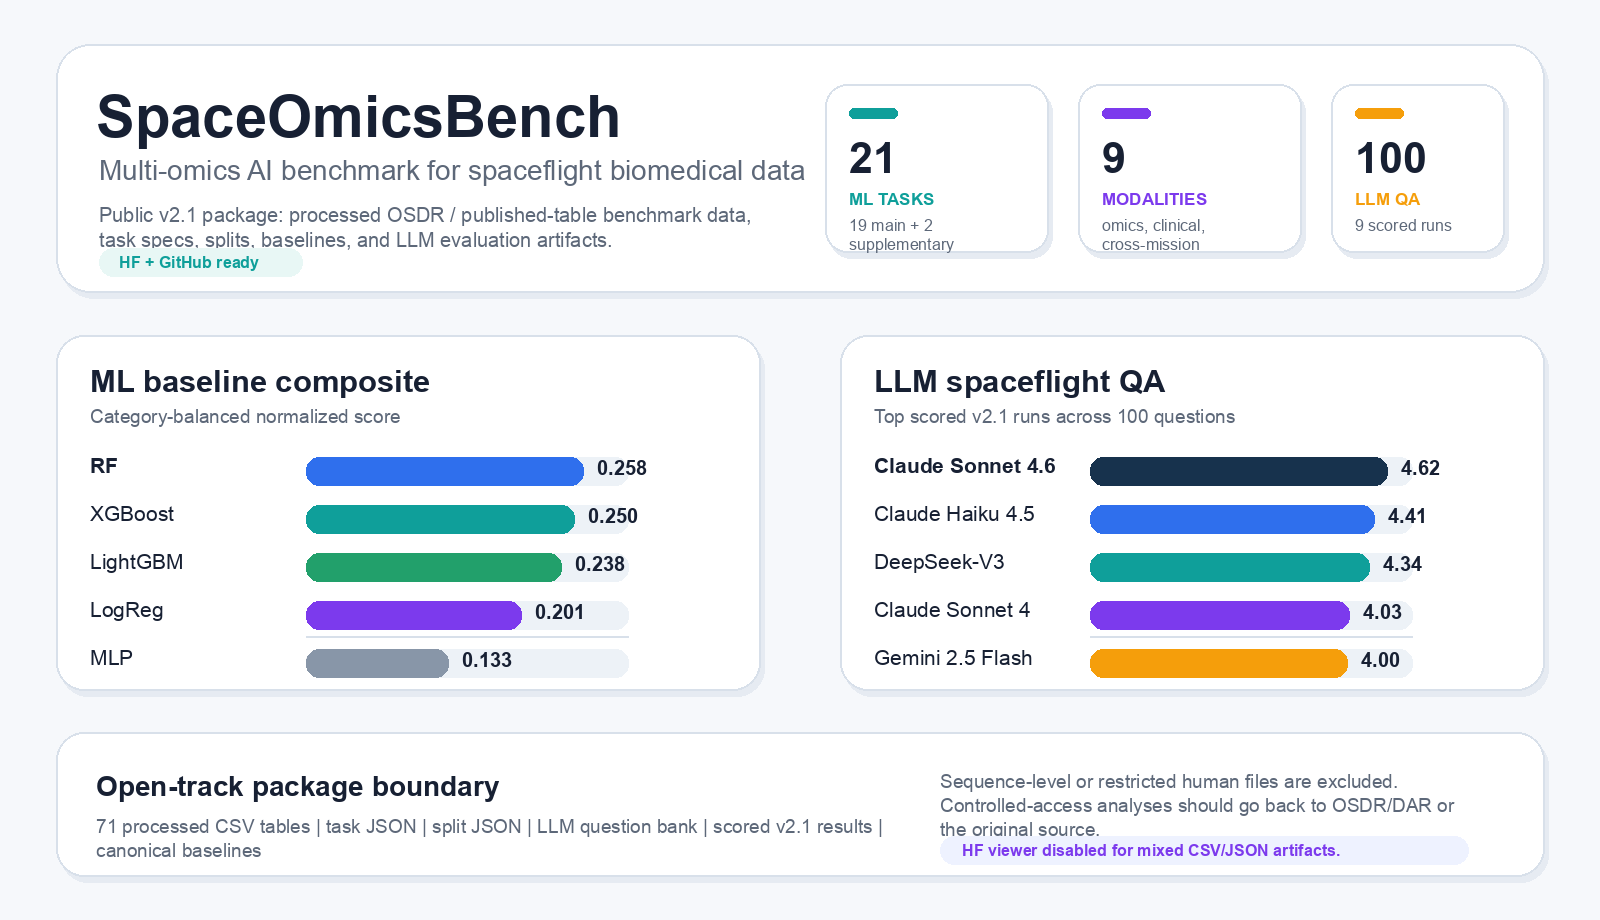
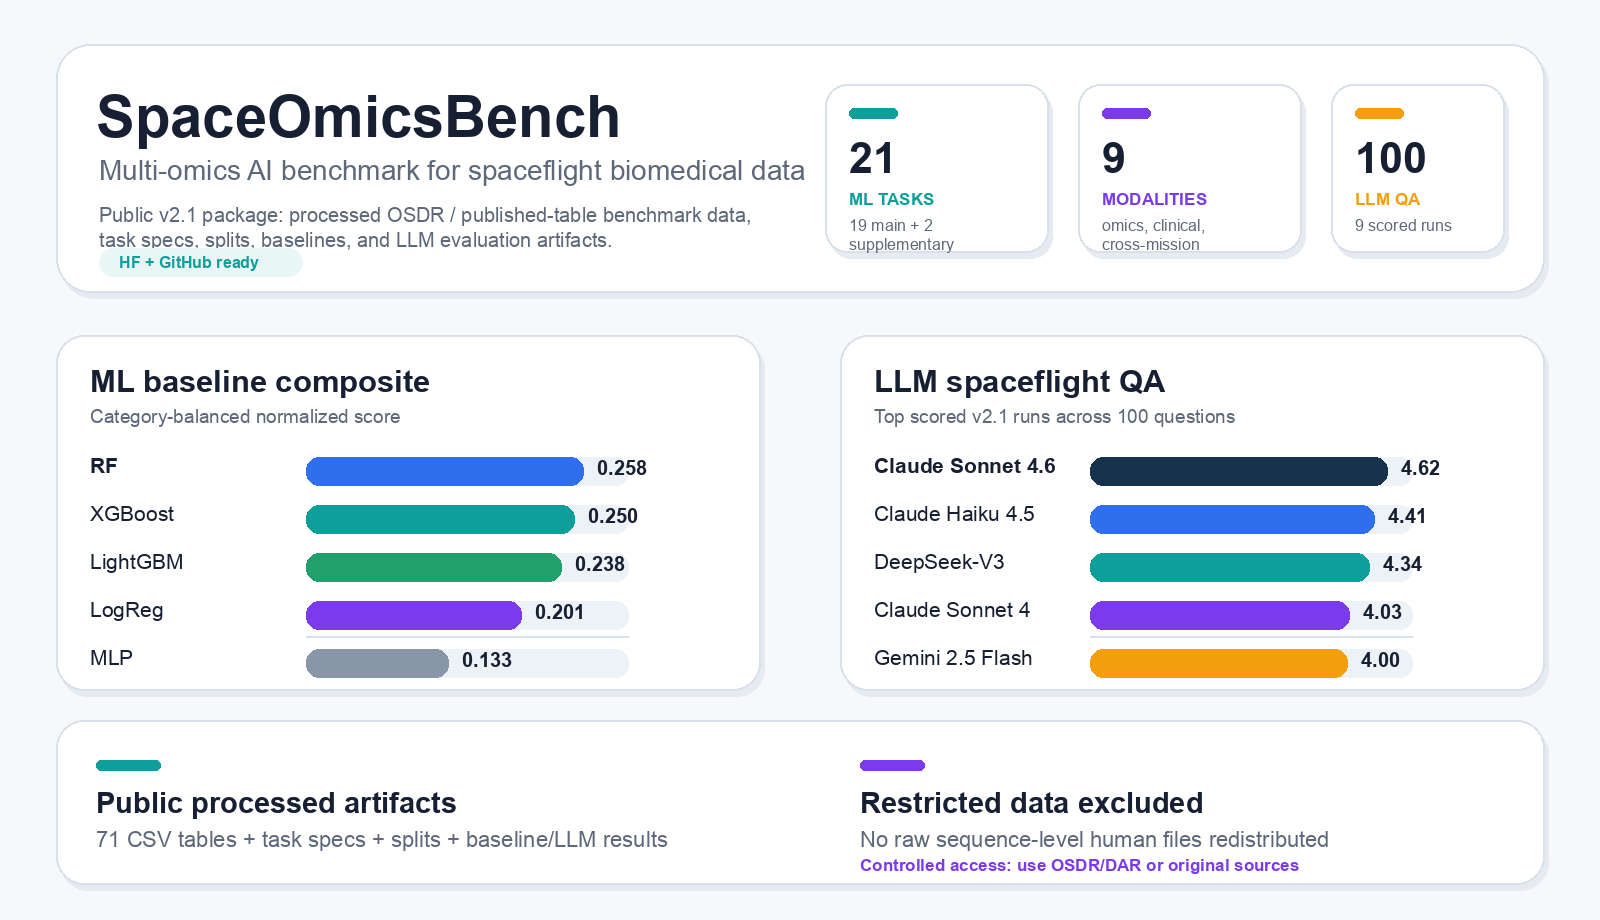
docs: refine SpaceOmicsBench summary figure

Changed region(s): [[0.0312, 0.8217, 0.9688, 0.9739], [0.9375, 0.7913, 0.9688, 0.8217], [0.0312, 0.7913, 0.0625, 0.8217]]

diff --git a/scripts/generate_hf_visual_assets.py b/scripts/generate_hf_visual_assets.py
@@ -227,29 +227,31 @@ def main() -> None:
         [COLORS["navy"], COLORS["blue"], COLORS["teal"], COLORS["violet"], COLORS["amber"]],
     )
 
-    footer = (56, 732, 1544, 876)
+    footer = (56, 720, 1544, 884)
     card(draw, footer, radius=28)
-    draw.text((96, 770), "Open-track package boundary", font=font(28, True), fill=COLORS["ink"])
-    multiline(
-        draw,
-        (96, 815),
-        f"{processed} processed CSV tables | task JSON | split JSON | LLM question bank | scored v2.1 results | canonical baselines",
-        font(19),
-        COLORS["muted"],
-        850,
-        5,
+    draw.rounded_rectangle((96, 760, 160, 770), radius=5, fill=COLORS["teal"])
+    draw.text((96, 786), "Public processed artifacts", font=font(29, True), fill=COLORS["ink"])
+    draw.text(
+        (96, 827),
+        f"{processed} CSV tables + task specs + splits + baseline/LLM results",
+        font=font(22),
+        fill=COLORS["muted"],
     )
-    multiline(
-        draw,
-        (940, 770),
-        "Sequence-level or restricted human files are excluded. Controlled-access analyses should go back to OSDR/DAR or the original source.",
-        font(19),
-        COLORS["muted"],
-        520,
-        5,
+
+    draw.rounded_rectangle((860, 760, 924, 770), radius=5, fill=COLORS["violet"])
+    draw.text((860, 786), "Restricted data excluded", font=font(29, True), fill=COLORS["ink"])
+    draw.text(
+        (860, 827),
+        "No raw sequence-level human files redistributed",
+        font=font(22),
+        fill=COLORS["muted"],
     )
-    draw.rounded_rectangle((940, 836, 1468, 864), radius=14, fill="#eef2ff")
-    draw.text((962, 841), "HF viewer disabled for mixed CSV/JSON artifacts.", font=font(16, True), fill=COLORS["violet"])
+    draw.text(
+        (860, 855),
+        "Controlled access: use OSDR/DAR or original sources",
+        font=font(17, True),
+        fill=COLORS["violet"],
+    )
 
     OUT.parent.mkdir(parents=True, exist_ok=True)
     image.save(OUT, optimize=True)
